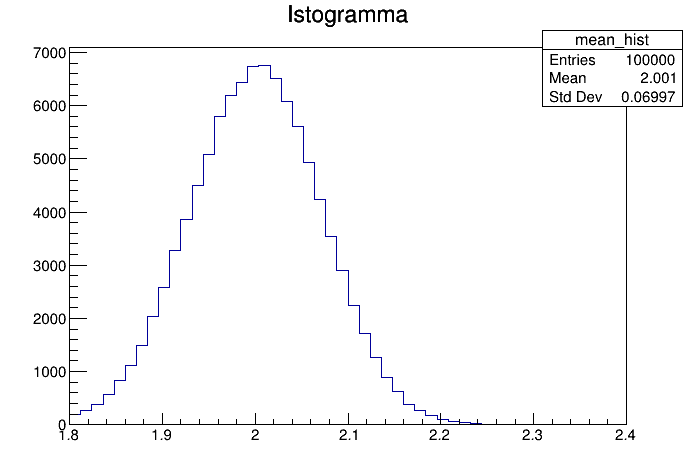
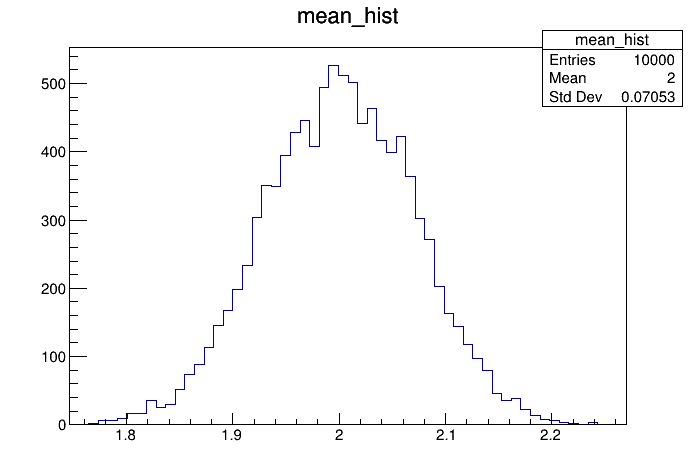
Exam with comments and fill_hist

diff --git a/esame_17012022/main.cpp b/esame_17012022/main.cpp
@@ -11,6 +11,8 @@
 
 using namespace std;
 
+TH1F fill_hist (vector<double> & data , const char * name);
+
 int main () {
 
     //Parte 1 - Generazione punti secondo pdf triangolare
@@ -23,10 +25,7 @@ int main () {
     }
 
     //Riempiamo L'istogramma con i punti generati
-    TH1F hist ("hist" , "Istogramma" , 50 , 0. , 3.);
-    for (vector<double>::iterator it = points.begin() ; it != points.end() ; ++it) {
-        hist.Fill(*it);
-    }
+    TH1F hist = fill_hist(points , "std_dev_hist");
 
     //Calcolo e stampa di media, deviazione standard e istogramma
     cout << "\tmedia del campione:" << mean (points) << endl;
@@ -37,7 +36,7 @@ int main () {
     c1.Print("plot.png");
 
     //Parte 2 - Toy experiments
-    int n_toy {100000} , toy_events {100};
+    int n_toy {10000} , toy_events {100};
     vector<double> toy_mean , toy_std_dev;
 
     points.clear();    
@@ -55,17 +54,14 @@ int main () {
     }
     
     //Creiamo e stampiamo gli istogrammi relativi ai risultati dei toy experiments
-    TH1F mean_hist ("mean_hist" , "Istogramma" , 50 , 1.8 , 2.4);
-    for (vector<double>::iterator it = toy_mean.begin() ; it != toy_mean.end() ; ++it) {
-        mean_hist.Fill(*it);
-    }
+    TH1F mean_hist = fill_hist(toy_mean , "mean_hist");
 
     TCanvas c2;
     mean_hist.Draw();
     c2.Print("mean.png" , "png"); 
 
 
-    TH1F std_dev_hist ("std_dev_hist" , "Istogramma" , 50 , 0.54 , 0.86);
+    TH1F std_dev_hist = fill_hist(toy_mean , "std_dev_hist");
     for (vector<double>::iterator it = toy_std_dev.begin() ; it != toy_std_dev.end() ; ++it) {
         std_dev_hist.Fill(*it);
     }
@@ -75,4 +71,30 @@ int main () {
     c3.Print("std.png" , "png");
     
     return 0;
+}
+
+//Questa funzione crea un istogramma con identificatore di root `name`
+//e lo riempe con i dati contenuti nel campione `data`,
+//la scelta dei limiti dell'istogramma e del numero di bin è automatica
+TH1F fill_hist (vector<double> & data , const char * name) {
+    double percent_25 , percent_75 , bin_wdth;
+    sort(data.begin() , data.end());
+
+    //Utilizzo la regola di Freedman-Diaconis per calcolare 
+    //automaticamente il numero di bin necessari
+    percent_25 = data.at( round(static_cast<double> (data.size()) * 0.25) - 1);
+    percent_75 = data.at( round(static_cast<double> (data.size()) * 0.75) - 1);
+    bin_wdth = 2 * (percent_75 - percent_25) / cbrt(data.size());
+    TH1F tmp_hist (
+        name ,
+        name ,
+        round((data.back() - data.front()) / bin_wdth) ,
+        data.front() ,
+        data.back()
+    );
+    for(vector<double>::iterator it = data.begin() ; it != data.end() ; ++it)
+        tmp_hist.Fill(*it);
+
+    //cout << "bin_width: " << bin_wdth << "\tfirst: " << data.front() << "\tlast: " << data.back() << endl;
+    return tmp_hist;
 }
